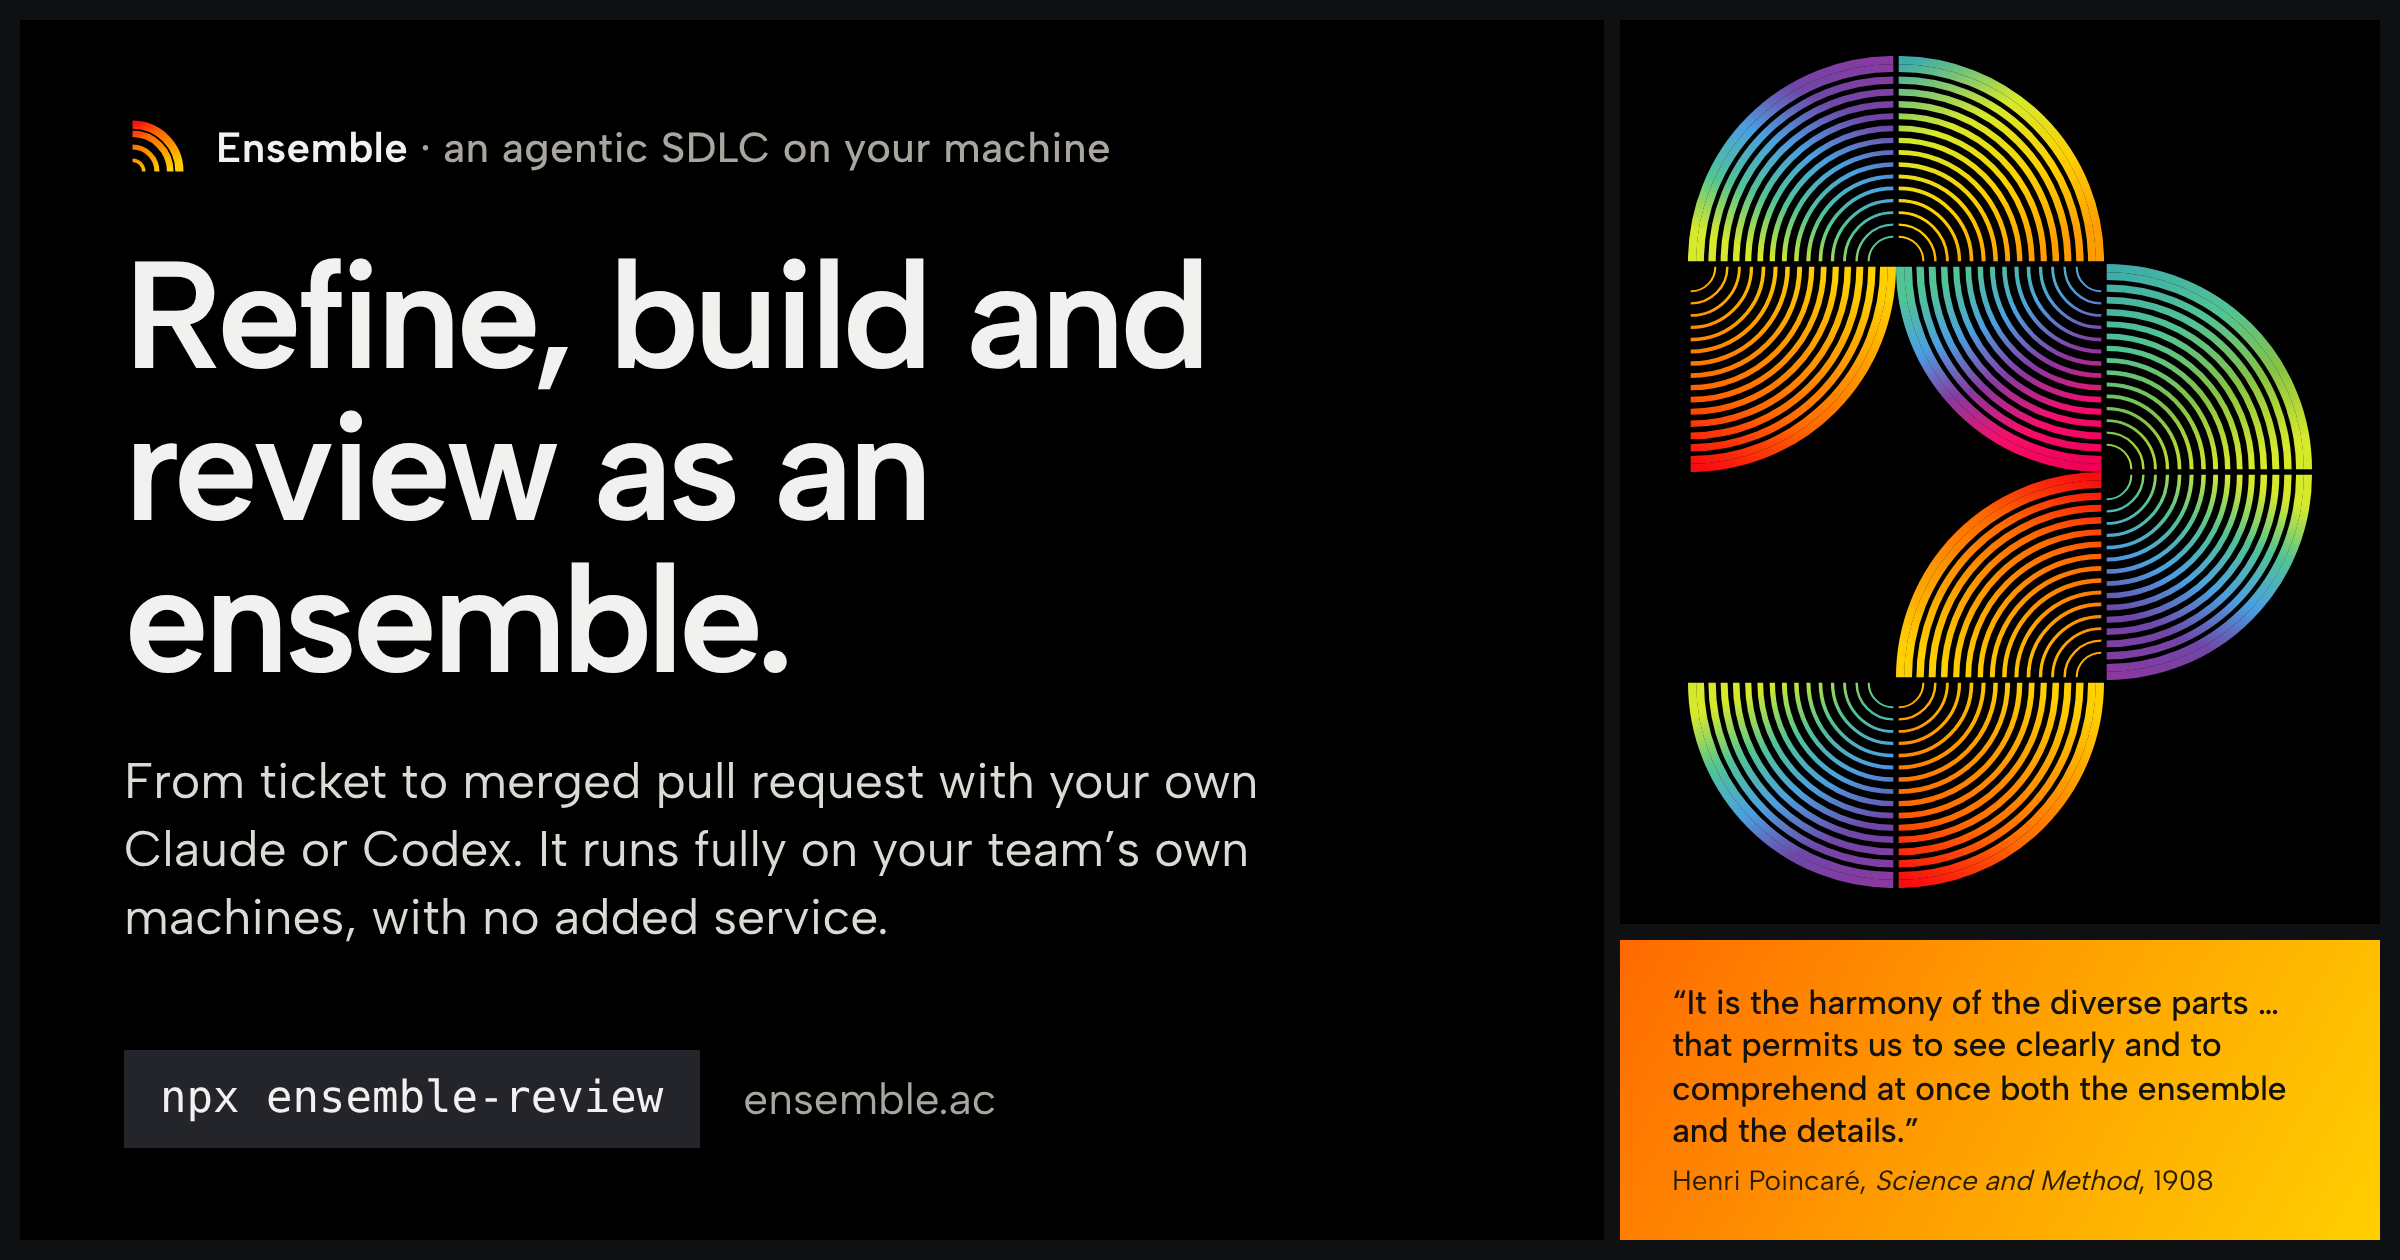
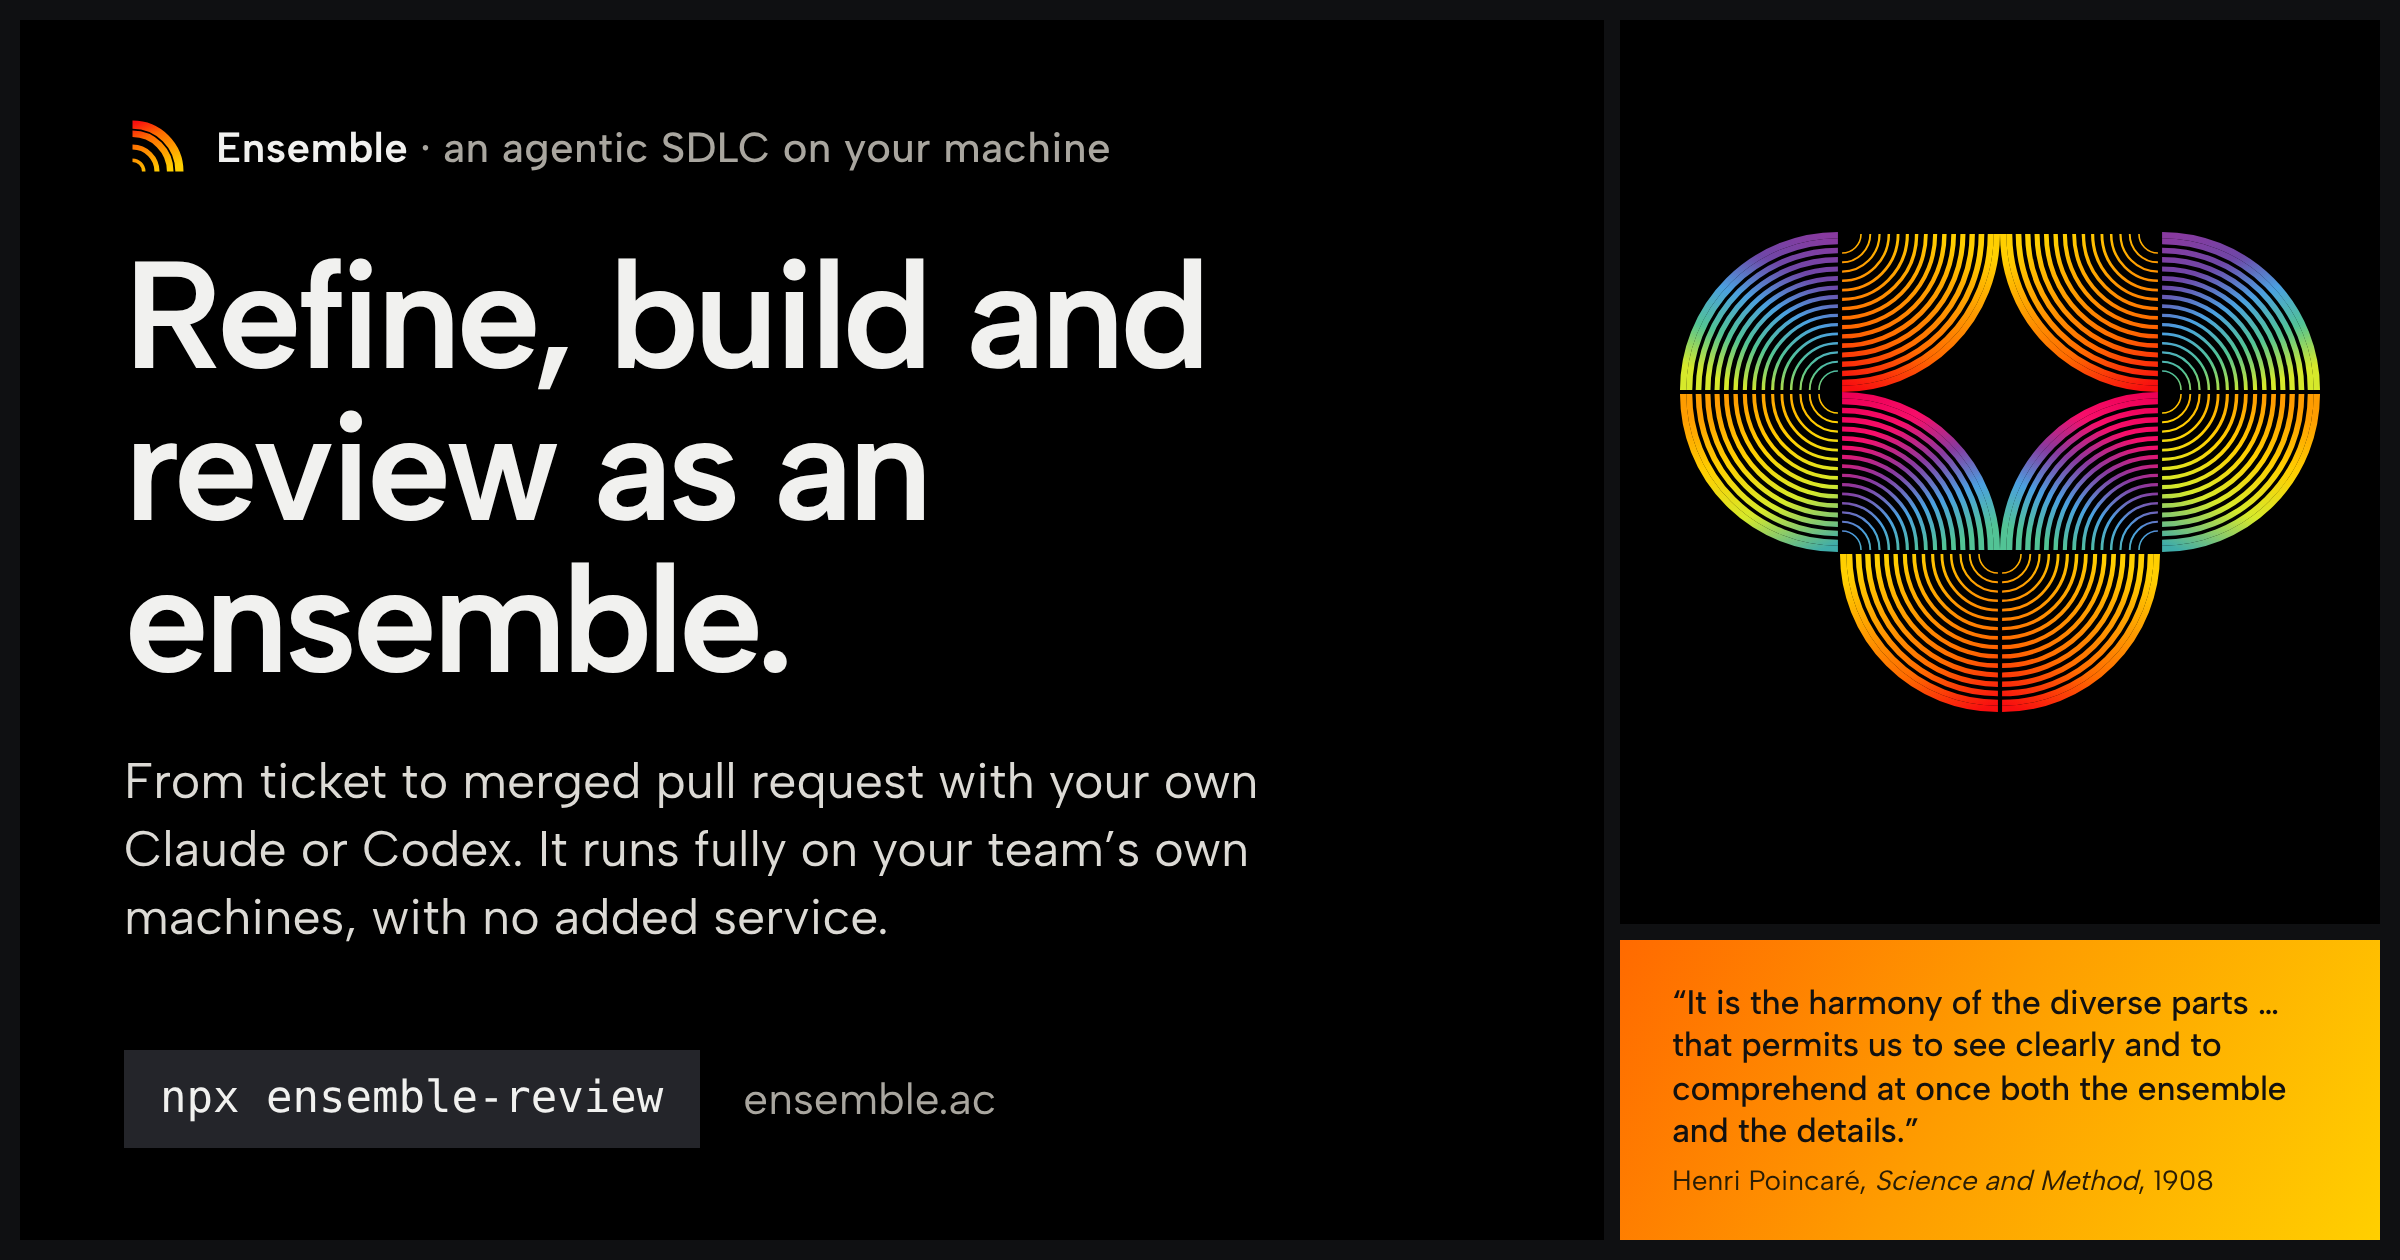
Landing: the hero's Chain lands symmetric
The Chain's finished shape is now mirror-symmetric left to right, in shape
and colour: ten links in a 4 x 3 landscape box, two half-discs above a
four-pointed star with one half-disc below (SITE_CHAIN 'BABBABBAB', first
'v'). It was found by searching every step string up to ten links for a
mirror-symmetric chain without a doubled quarter.

A symmetric chain is coloured by mirror pairs (mirroredRuns): each link
takes its mirror's run, and a new run never shares a temperature with the
link before. It still starts at its mirror image and crosses into place.
The share image is regenerated.

Claude-Session: https://claude.ai/code/session_01Y7zDQPGDUWXXDdJKrAgGTD

Changed region(s): [[0.6875, 0.031, 0.9688, 0.7119]]

diff --git a/apps/landing/src/components/arcs/geometry.ts b/apps/landing/src/components/arcs/geometry.ts
@@ -205,6 +205,42 @@ export const RUN_ORDER: readonly RunName[] = ['ember', 'dawn', 'meadow', 'dusk',
 
 // Neighbouring links never share a temperature: warm, cool, warm, cool …
 const CHAIN_RUNS: readonly RunName[] = ['ember', 'dusk', 'dawn', 'bloom', 'meadow', 'dusk', 'ember'];
+const WARM: ReadonlySet<RunName> = new Set(['ember', 'dawn']);
+const MIRROR_CORNER: Record<Corner, Corner> = { tl: 'tr', tr: 'tl', bl: 'br', br: 'bl' };
+
+/**
+ * Colours for a chain that is MIRROR-SYMMETRIC left to right: each link takes the run of
+ * its mirror image, so the finished picture is symmetric in colour as well as shape.
+ * The links are coloured in chain order from `CHAIN_RUNS`, a link whose mirror is already
+ * coloured copies it, and a new colour never shares a temperature with the link before.
+ * Null when the chain is not symmetric.
+ */
+function mirroredRuns(qs: { cx: number; cy: number; corner: Corner }[], width: number): RunName[] | null {
+  const near = (a: number, b: number): boolean => Math.abs(a - b) < 1e-6;
+  const partner = qs.map((q) =>
+    qs.findIndex((o) => near(o.cx, width - q.cx) && near(o.cy, q.cy) && o.corner === MIRROR_CORNER[q.corner]),
+  );
+  if (partner.some((j) => j < 0)) return null;
+  const runs: RunName[] = [];
+  let k = 0;
+  qs.forEach((_, i) => {
+    const j = partner[i] as number;
+    if (j < i) {
+      runs[i] = runs[j] as RunName;
+      return;
+    }
+    const prev = runs[i - 1];
+    for (let t = 0; t < CHAIN_RUNS.length; t++) {
+      const r = CHAIN_RUNS[(k + t) % CHAIN_RUNS.length] as RunName;
+      if (prev != null && (r === prev || WARM.has(r) === WARM.has(prev))) continue;
+      runs[i] = r;
+      k = (k + t + 1) % CHAIN_RUNS.length;
+      return;
+    }
+    runs[i] = CHAIN_RUNS[k++ % CHAIN_RUNS.length] as RunName;
+  });
+  return runs;
+}
 
 const CORNER_OF = (sx: number, sy: number): Corner =>
   sx > 0 ? (sy > 0 ? 'tl' : 'bl') : sy > 0 ? 'tr' : 'br';
@@ -264,6 +300,11 @@ export function chainQuarters(
   const h = Math.max(...ys) - Math.min(...ys);
   const mx = Math.min(...xs) + w / 2;
   const my = Math.min(...ys) + h / 2;
+  // A symmetric chain is coloured symmetrically; any other cycles CHAIN_RUNS.
+  const symmetric = mirroredRuns(
+    raw.map((q) => ({ cx: q.cx - x0, cy: q.cy - y0, corner: CORNER_OF(q.sx, q.sy) })),
+    w + 2 * m,
+  );
   return {
     quarters: raw.map((q, i) => {
       // each link waits OUTWARD from the chain's middle and closes in along that line,
@@ -276,7 +317,7 @@ export function chainQuarters(
         cy: q.cy - y0,
         R,
         corner: CORNER_OF(q.sx, q.sy),
-        run: CHAIN_RUNS[i % CHAIN_RUNS.length] as RunName,
+        run: symmetric?.[i] ?? (CHAIN_RUNS[i % CHAIN_RUNS.length] as RunName),
         // crossing: start at the mirror image, -2u, which the CSS reaches at 1.6 × dx
         dx: Math.round((cross ? (-2 * ux) / 1.6 : (ux / len) * R * 0.16) * 100) / 100,
         dy: Math.round((cross ? (-2 * uy) / 1.6 : (uy / len) * R * 0.16) * 100) / 100,
@@ -287,12 +328,14 @@ export function chainQuarters(
   };
 }
 
-/** The site's chain (the hero's big picture and the share image): it zigzags down a portrait box of
- *  3 × 4 radii, and its links cross through each other on their way in. The margin
- *  (0.15 of a slice's radius) is the gap it keeps from the tile's edges, so the gap
- *  scales with the slices, not the screen. A chain that stacks half-discs on one centre line is avoided on purpose:
- *  that is the reference artwork's own figure. */
-export const SITE_CHAIN = { steps: 'BABBABBA', first: 'h', margin: 0.15, cross: true } as const;
+/** The site's chain (the hero's big picture and the share image). It LANDS SYMMETRIC: ten
+ *  links in a landscape box of 4 × 3 radii, mirrored left to right in shape and colour
+ *  (two half-discs above, a four-pointed star between them, one half-disc below), so the
+ *  scroll resolves into order. Its links cross through each other on their way in. The
+ *  margin (0.15 of a slice's radius) is the gap it keeps from the tile's edges, so the gap
+ *  scales with the slices, not the screen. Searched among every step string up to ten
+ *  links for a mirror-symmetric chain without a doubled quarter. */
+export const SITE_CHAIN = { steps: 'BABBABBAB', first: 'v', margin: 0.15, cross: true } as const;
 
 /**
  * The QUARTET: four quarters centred on the corners of a 100-unit square, facing one

diff --git a/apps/landing/src/components/arcs/pieces.tsx b/apps/landing/src/components/arcs/pieces.tsx
@@ -13,7 +13,7 @@ import type { Corner, Quarter, RunName } from './geometry';
 //   Chain      quarters linked end to end, each a different voice, whose bands run
 //              on from link to link (the hero's big picture). Its links start
 //              mirrored across the tile and cross through each other into place as
-//              the reader scrolls down.
+//              the reader scrolls down, landing SYMMETRIC left to right (SITE_CHAIN).
 //   Orchestra  the seating plan from above: rows of chairs in sections around
 //              the conductor
 //   Combo      a jazz band: four players of different weight, facing in, their
